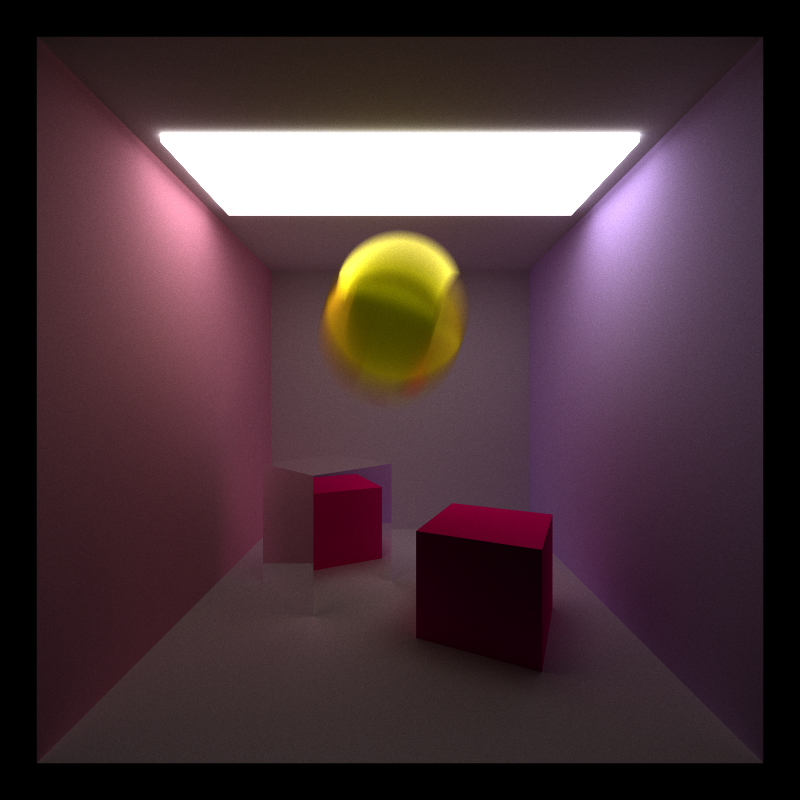
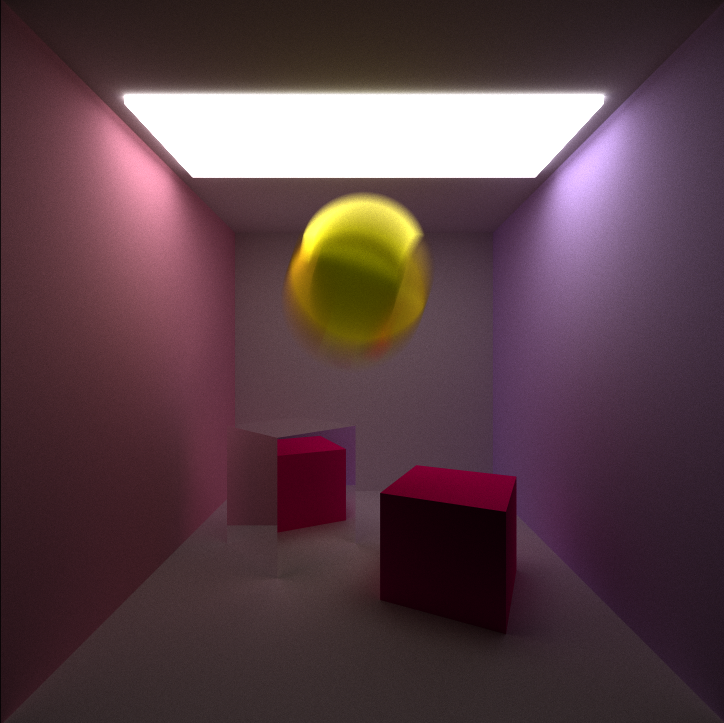
Adjusted image dimensions in readme

diff --git a/src/main.cpp b/src/main.cpp
@@ -3,7 +3,7 @@
 #include <cstring>
 
 //Change the filename here 
-#define OBJ_FILENAME std::string("../scenes/objs/unicorn.obj")
+#define OBJ_FILENAME std::string("../scenes/objs/deer.obj")
 #define OBJ_LOADING 1
 
 static std::string startTimeString;

diff --git a/README.md b/README.md
@@ -21,57 +21,89 @@ GPU : NVIDIA GeForce RTX 2060
 
 ## FEATURES 
 
-### DIFFUSE, REFLECTIVE AND REFRACTIVE OBJECTS 
+### Diffuse Reflective and Refractive Objects 
 
-![Cornell 1](img/renders/cornell1.png) ![Cornell 2](img/renders/cornell2.png)
-
-
-
-![Refr 1](img/renders/refr_1.png)  ![Refr 2](img/renders/refr_2.png)
-
-
-
-### DEPTH OF FIELD
-
-![dof 1](img/renders/dof_1.png)  ![dof 2](img/renders/dof_2.png)  ![refr dof](img/renders/refr_dof.png) 
+<p float="left">
+  <img src="/img/renders/myboxdl.png" height = "400" width = "400" />
+  <img src="/img/renders/cornell1.png" height = "400" width = "400" />
+  <img src="/img/renders/refr_1.png" height = "400" width = "400" /> 
+  <img src="/img/renders/refr_2.png" height = "400" width = "400" /> 
+</p>
 
 
+### Depth Of Field 
 
+<p float="left">
+  <img src="/img/renders/dof_1.png" height = "300" width = "300" />
+  <img src="/img/renders/dof_2.png" height = "300" width = "300" /> 
+  <img src="/img/renders/refr_dof.png" height = "300" width = "300" /> 
+</p>
 
+### Motion Blur 
 
-### MOTION BLUR 
-
-![motionblur 1](img/renders/motion_blur_1.png)  ![motionblur 2](img/renders/motion_blur_2.png) 
-
-
-
-### OBJ MESH LOADING 
-
-#### Charizard 
-
-![charizard 1](img/renders/charizard_1.png)  ![charizard 2](img/renders/charizard_2.png)
+<p float="left">
+  <img src="/img/renders/motion_blur_1.png" height = "400" width = "400" />
+  <img src="/img/renders/motion_blur_2.png" height = "400" width = "400" /> 
+</p>
 
 
 
-#### Deer 
+### OBJ Mesh Loading
+
+#### 1) Charizard 
+
+<p float="left">
+  <img src="/img/renders/charizard_1.png" height = "400" width = "400" />
+  <img src="/img/renders/charizard_2.png" height = "400" width = "400" />
+</p>
+
+
+#### 2) Deer 
 
 - Outside the box                                      - Inside the box 
-
-![deer ext](img/renders/deer_ext.png)      ![deer int](img/renders/deer_int.png)
-
-
-
-
-
-
-#### Unicorn 
-
-![unicorn 1](img/renders/unicorn_1.png)     ![unicorn 2](img/renders/unicorn_2.png)
+ 
+ <p float="left">
+ <img src="/img/renders/deer_ext.png" height = "400" width = "400" />
+ <img src="/img/renders/deer_int.png" height = "400" width = "400" />
+</p>
 
 
-### DIRECT LIGHTING 
+#### 3) Unicorn 
 
-### ANTI ALIASING 
+ <p float="left">
+ <img src="/img/renders/unicorn_1.png" height = "400" width = "400" />
+ <img src="/img/renders/unicorn_2.png" height = "400" width = "400" />
+</p>
+
+
+### Direct Lighting 
+
+ <p float="left">
+ <img src="/img/renders/myboxdl.png" height = "400" width = "400" />
+ <img src="/img/renders/myboxnodl.png" height = "400" width = "400" />
+</p>
+
+### Anti Aliasing
+
+ <p float="left">
+ <img src="/img/renders/myboxdl.png" height = "400" width = "400" />
+ <img src="/img/renders/myboxnoaa.png" height = "400" width = "400" />
+</p>
+
+## PATH TRACER 
+
+Path tracing is a type of ray tracing. The path tracing algorithm then takes a random sampling of all of the rays to create the final image. 
+This results in sampling a variety of different types of lighting, but especially global illumination.
+we see things because light emitted by light sources such as the sun bounces off of the surface of objects. When light rays bounce only once from the surface of an object to reach the eye, we speak of direct illumination. But when light rays are emitted by a light source, they can bounce off of the surface of objects multiple times before reaching the eye. 
+This is what we call indirect illumination because light rays follow complex paths before entering the eye.
+
+<img src="/img/renders/dlandindl.png" height = "400" width = "400" />
+
+ <p float="left">
+ <img src="/img/renders/pathtracer1.png" height = "400" width = "400" />
+ <img src="/img/renders/pathtracer2.png" height = "400" width = "400" />
+</p>
+
 
 ## OPTIMIZATIONS 
 
@@ -80,24 +112,6 @@ GPU : NVIDIA GeForce RTX 2060
 ### Steam Compacting dead rays 
 
 ### Caching first bounce 
-
-
-
-
-
-
-
-
-
-
-
-
-
-
-
-
-
-
 
 
 ## Bloopers 
